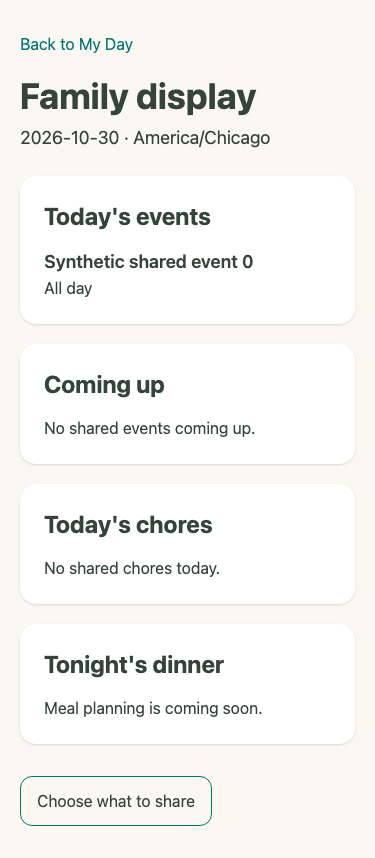
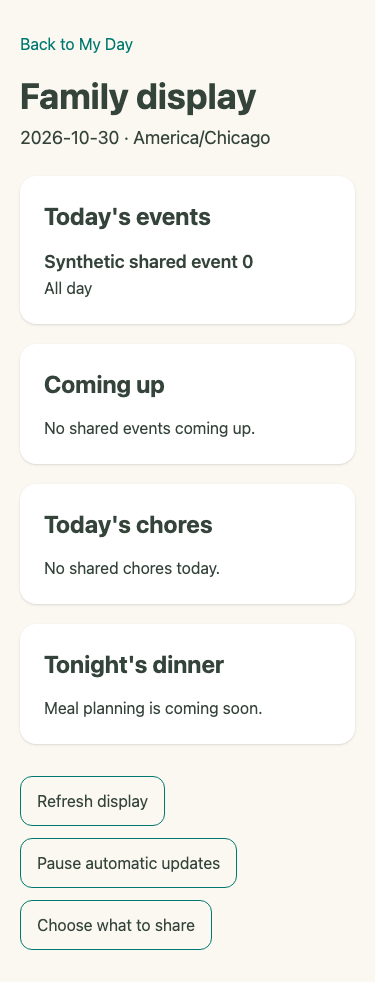
Make display refresh accessible and resilient

diff --git a/e2e/display.spec.ts b/e2e/display.spec.ts
@@ -7,6 +7,8 @@ test('a parent explicitly shares an event and changes appear on the family displ
   const anonymous = await page.request.get('/display', { maxRedirects: 0 });
   expect(anonymous.status()).toBe(303);
   expect(anonymous.headers().location).toBe('/sign-in');
+  const anonymousData = await page.request.get('/display/data', { maxRedirects: 0 });
+  expect(anonymousData.status()).toBe(303);
   await page.goto('/sign-in');
   await page.getByLabel('Email').fill('parent@example.test');
   await page.getByLabel('Password').fill('synthetic-parent-password');
@@ -16,16 +18,39 @@ test('a parent explicitly shares an event and changes appear on the family displ
   expect(await created.json()).toMatchObject({ type: 'success', status: 200 });
   const initialDisplay = await page.goto('/display');
   expect(await initialDisplay?.text()).not.toContain(title);
+  await expect(page.locator('meta[http-equiv="refresh" i]')).toHaveCount(0);
+  await expect(page.getByRole('link', { name: 'Refresh display' })).toBeVisible();
   await expect(page.getByRole('heading', { name: 'Family display' })).toBeVisible();
   const todaySection = page.getByRole('region', { name: "Today's events" });
   await expect(page.locator('body')).not.toContainText(title);
   await page.getByRole('link', { name: 'Choose what to share' }).click();
   const sharing = page.getByRole('region', { name: 'Choose what to share' });
   const event = sharing.getByRole('article').filter({ hasText: title });
+  const id = await event.locator('input[name="id"]').inputValue();
   await event.getByRole('button', { name: 'Show on display' }).click();
   await expect(event.getByRole('button', { name: 'Remove from display' })).toBeVisible();
+  await page.clock.install();
   await page.getByRole('link', { name: 'View family display' }).click();
   await expect(todaySection.getByText(title)).toBeVisible();
+  const change = await page.request.post('/calendar?/saveEvent', { form: { id, title: updated, date: today, allDay: 'on' }, headers: { origin: 'http://127.0.0.1:4173' } });
+  expect(await change.json()).toMatchObject({ type: 'success', status: 200 });
+  await page.clock.fastForward(60_000);
+  await expect(todaySection.getByText(updated)).toBeVisible();
+  await page.getByRole('button', { name: 'Pause automatic updates' }).click();
+  const pausedChange = await page.request.post('/calendar?/saveEvent', { form: { id, title, date: today, allDay: 'on' }, headers: { origin: 'http://127.0.0.1:4173' } });
+  expect(await pausedChange.json()).toMatchObject({ type: 'success', status: 200 });
+  await page.clock.fastForward(60_000);
+  await expect(todaySection.getByText(updated)).toBeVisible();
+  await page.getByRole('button', { name: 'Resume automatic updates' }).click();
+  await page.clock.fastForward(60_000);
+  await expect(todaySection.getByText(title)).toBeVisible();
+  await page.context().setOffline(true);
+  try {
+    await page.clock.fastForward(60_000);
+    await expect(page.getByRole('status')).toContainText('Unable to update the display');
+  } finally { await page.context().setOffline(false); }
+  await page.clock.fastForward(60_000);
+  await expect(page.getByRole('status')).toHaveCount(0);
   await page.setViewportSize({ width: 1280, height: 720 });
   await page.screenshot({ path: testInfo.outputPath('display-landscape.png'), fullPage: true });
   await page.setViewportSize({ width: 375, height: 812 });
@@ -67,6 +92,10 @@ test('children cannot manage display settings and responses are private', async 
   const display = await page.request.get('/display');
   expect(display.status()).toBe(200);
   expect(display.headers()['cache-control']).toContain('no-store');
+  const data = await page.request.get('/display/data');
+  expect(data.status()).toBe(200);
+  expect(data.headers()['cache-control']).toContain('no-store');
+  expect(await data.text()).not.toContain(title);
   expect((await page.request.get('/display/settings')).status()).toBe(403);
   const change = await page.request.post('/display/settings?/share', { form: { kind: 'event', id, visible: 'yes' }, headers: { origin: 'http://127.0.0.1:4173' } });
   expect(change.status()).toBe(403);
@@ -107,4 +136,20 @@ test('a selected chore shows its current progress without displaying its reward'
   const displayChore = page.getByRole('region', { name: 'Shared chores' }).getByRole('article').filter({ hasText: title });
   await expect(displayChore.getByText('Waiting for a parent')).toBeVisible();
   expect(await response?.text()).not.toContain('$2.00');
+});
+
+test('manual display refresh works without JavaScript', async ({ page, browser }) => {
+  await page.goto('/sign-in');
+  await page.getByLabel('Email').fill('kid@example.test');
+  await page.getByLabel('Password').fill('synthetic-kid-password');
+  await page.getByRole('button', { name: 'Sign in' }).click();
+  await expect(page.getByRole('heading', { name: "Sample Kid's My Day" })).toBeVisible();
+  const context = await browser.newContext({ javaScriptEnabled: false, storageState: await page.context().storageState() });
+  try {
+    const display = await context.newPage();
+    await display.goto('/display');
+    await expect(display.getByRole('button', { name: 'Pause automatic updates' })).toBeDisabled();
+    await display.getByRole('link', { name: 'Refresh display' }).click();
+    await expect(display.getByRole('heading', { name: 'Family display' })).toBeVisible();
+  } finally { await context.close(); }
 });

diff --git a/src/routes/display/+page.svelte b/src/routes/display/+page.svelte
@@ -1,24 +1,46 @@
 <script lang="ts">
   import { resolve } from '$app/paths';
+  import { onMount } from 'svelte';
   let { data } = $props();
+  let current = $derived(data);
+  let ready = $state(false);
+  let updating = $state(true);
+  let refreshError = $state(false);
+  onMount(() => {
+    ready = true;
+    let inFlight = false;
+    const timer = setInterval(() => {
+      if (updating && !inFlight) {
+        inFlight = true;
+        void fetch(resolve('/display/data'), { cache: 'no-store' }).then(async response => {
+        if (response.redirected || response.status === 401 || response.status === 403) { window.location.assign(resolve('/sign-in')); return; }
+        if (!response.ok) throw new Error('Display refresh failed');
+        current = await response.json();
+        refreshError = false;
+        }).catch(() => { refreshError = true; }).finally(() => { inFlight = false; });
+      }
+    }, 60_000);
+    return () => clearInterval(timer);
+  });
 </script>
-<svelte:head><title>Family display · Fleck Home Hub</title><meta http-equiv="refresh" content="60" /></svelte:head>
+<svelte:head><title>Family display · Fleck Home Hub</title></svelte:head>
 <main class="mx-auto max-w-7xl px-5 py-8">
   <a href={resolve('/dashboard')} class="text-teal-700">Back to My Day</a>
   <h1 class="mt-5 text-4xl font-bold">Family display</h1>
-  <p class="mt-2 text-lg">{data.today} · {data.timezone}</p>
+  <p class="mt-2 text-lg">{current.today} · {current.timezone}</p>
+  {#if refreshError}<p role="status" class="mt-3">Unable to update the display. Check the connection and refresh.</p>{/if}
   <div class="mt-6 grid gap-5 md:grid-cols-2 xl:grid-cols-3">
     <section aria-label="Today's events" class="rounded-2xl bg-white p-6 shadow-sm"><h2 class="text-2xl font-bold">Today's events</h2>
-      {#each data.events.filter(event => event.date === data.today) as event (`${event.id}-${event.date}`)}<article class="mt-4"><h3 class="text-lg font-semibold">{event.title}</h3><p>{event.allDay ? 'All day' : `${event.startTime}–${event.endTime}`}</p></article>{:else}<p class="mt-4">No shared events today.</p>{/each}
+      {#each current.events.filter(event => event.date === current.today) as event (`${event.id}-${event.date}`)}<article class="mt-4"><h3 class="text-lg font-semibold">{event.title}</h3><p>{event.allDay ? 'All day' : `${event.startTime}–${event.endTime}`}</p></article>{:else}<p class="mt-4">No shared events today.</p>{/each}
     </section>
     <section aria-label="Upcoming events" class="rounded-2xl bg-white p-6 shadow-sm"><h2 class="text-2xl font-bold">Coming up</h2>
-      {#each data.events.filter(event => event.date > data.today) as event (`${event.id}-${event.date}`)}<article class="mt-4"><h3 class="text-lg font-semibold">{event.title}</h3><p>{event.date} · {event.allDay ? 'All day' : `${event.startTime}–${event.endTime}`}</p></article>{:else}<p class="mt-4">No shared events coming up.</p>{/each}
+      {#each current.events.filter(event => event.date > current.today) as event (`${event.id}-${event.date}`)}<article class="mt-4"><h3 class="text-lg font-semibold">{event.title}</h3><p>{event.date} · {event.allDay ? 'All day' : `${event.startTime}–${event.endTime}`}</p></article>{:else}<p class="mt-4">No shared events coming up.</p>{/each}
     </section>
     <section aria-label="Shared chores" class="rounded-2xl bg-white p-6 shadow-sm"><h2 class="text-2xl font-bold">Today's chores</h2>
-      {#each data.chores as chore (chore.id)}<article class="mt-4"><h3 class="text-lg font-semibold">{chore.title}</h3><p>{chore.status === 'verified' ? 'Approved' : chore.status === 'pending_verification' ? 'Waiting for a parent' : chore.status === 'needs_rework' ? 'Needs rework' : 'To do'}</p></article>{:else}<p class="mt-4">No shared chores today.</p>{/each}
-      {#if data.chores.length}<p class="mt-4">{data.chores.filter(chore => chore.status === 'verified').length} of {data.chores.length} approved</p>{/if}
+      {#each current.chores as chore (chore.id)}<article class="mt-4"><h3 class="text-lg font-semibold">{chore.title}</h3><p>{chore.status === 'verified' ? 'Approved' : chore.status === 'pending_verification' ? 'Waiting for a parent' : chore.status === 'needs_rework' ? 'Needs rework' : 'To do'}</p></article>{:else}<p class="mt-4">No shared chores today.</p>{/each}
+      {#if current.chores.length}<p class="mt-4">{current.chores.filter(chore => chore.status === 'verified').length} of {current.chores.length} approved</p>{/if}
     </section>
     <section class="rounded-2xl bg-white p-6 shadow-sm"><h2 class="text-2xl font-bold">Tonight's dinner</h2><p class="mt-4">Meal planning is coming soon.</p></section>
   </div>
-  {#if data.canManage}<a href={resolve('/display/settings')} class="mt-8 inline-block rounded-xl border border-teal-700 px-4 py-3">Choose what to share</a>{/if}
+  <div class="mt-8 flex flex-wrap gap-3"><a href={resolve('/display')} data-sveltekit-reload class="inline-block rounded-xl border border-teal-700 px-4 py-3">Refresh display</a><button disabled={!ready} onclick={() => { updating = !updating; }} class="rounded-xl border border-teal-700 px-4 py-3 disabled:opacity-50">{updating ? 'Pause automatic updates' : 'Resume automatic updates'}</button>{#if current.canManage}<a href={resolve('/display/settings')} class="inline-block rounded-xl border border-teal-700 px-4 py-3">Choose what to share</a>{/if}</div>
 </main>

diff --git a/src/routes/display/+page.server.ts b/src/routes/display/+page.server.ts
@@ -1,25 +1,4 @@
-import { error, redirect } from '@sveltejs/kit';
 import type { PageServerLoad } from './$types';
-import { localDate } from '../../lib/chores/recurrence';
-import { displayData } from '../../lib/server/display';
-import { getIdentityServices } from '../../lib/server/runtime';
+import { loadDisplay } from '../../lib/server/display-view';
 
-async function principal(request: Request) {
-  let services;
-  try { services = getIdentityServices(); } catch { error(503, 'Identity service unavailable'); }
-  const session = await services.auth.api.getSession({ headers: request.headers });
-  if (!session) redirect(303, '/sign-in');
-  const member = services.db.prepare('SELECT household_id AS householdId FROM membership WHERE user_id = ? ORDER BY household_id LIMIT 1').get(session.user.id) as { householdId: string } | undefined;
-  if (!member) error(403, 'No household access');
-  return { ...services, actor: session.user.id, household: member.householdId };
-}
-
-export const load: PageServerLoad = async ({ request }) => {
-  const { db, actor, household } = await principal(request);
-  const settings = db.prepare('SELECT timezone FROM household_settings WHERE household_id = ?').get(household) as { timezone: string } | undefined;
-  const timezone = settings?.timezone ?? 'America/Chicago';
-  const today = localDate(new Date(), timezone);
-  const last = new Date(`${today}T00:00:00Z`); last.setUTCDate(last.getUTCDate() + 7);
-  const { choices, events, chores } = displayData(db, actor, household, today, last.toISOString().slice(0, 10));
-  return { today, timezone, events, chores, canManage: choices !== null };
-};
+export const load: PageServerLoad = ({ request }) => loadDisplay(request);

diff --git a/src/lib/server/display-view.ts b/src/lib/server/display-view.ts
@@ -1,0 +1,19 @@
+import { error, redirect } from '@sveltejs/kit';
+import { localDate } from '../chores/recurrence';
+import { displayData } from './display';
+import { getIdentityServices } from './runtime';
+
+export async function loadDisplay(request: Request) {
+  let services;
+  try { services = getIdentityServices(); } catch { error(503, 'Identity service unavailable'); }
+  const session = await services.auth.api.getSession({ headers: request.headers });
+  if (!session) redirect(303, '/sign-in');
+  const member = services.db.prepare('SELECT household_id AS householdId FROM membership WHERE user_id = ? ORDER BY household_id LIMIT 1').get(session.user.id) as { householdId: string } | undefined;
+  if (!member) error(403, 'No household access');
+  const settings = services.db.prepare('SELECT timezone FROM household_settings WHERE household_id = ?').get(member.householdId) as { timezone: string } | undefined;
+  const timezone = settings?.timezone ?? 'America/Chicago';
+  const today = localDate(new Date(), timezone);
+  const last = new Date(`${today}T00:00:00Z`); last.setUTCDate(last.getUTCDate() + 7);
+  const { choices, events, chores } = displayData(services.db, session.user.id, member.householdId, today, last.toISOString().slice(0, 10));
+  return { today, timezone, events, chores, canManage: choices !== null };
+}

diff --git a/src/routes/display/data/+server.ts b/src/routes/display/data/+server.ts
@@ -1,0 +1,5 @@
+import { json } from '@sveltejs/kit';
+import type { RequestHandler } from './$types';
+import { loadDisplay } from '../../../lib/server/display-view';
+
+export const GET: RequestHandler = async ({ request }) => json(await loadDisplay(request));

diff --git a/docs/display.md b/docs/display.md
@@ -2,6 +2,6 @@
 
 The display requires a normal household member session. Parents choose events and today's chores to share on the separate settings page. Sharing an event applies to its entire series; sharing a chore applies only to that occurrence. A parent can remove either selection, including after the record leaves the display's date range. Existing records are private by default. The display sends only selected titles, dates, times and chore statuses; it excludes descriptions, locations, assignee names, balances and rewards. Skipped and paused unstarted recurring chores are hidden.
 
-The page reloads every 60 seconds to obtain fresh data. If the connection fails, the browser's normal network error is shown; there is no offline cache. Expired or revoked sessions must sign in again. The display uses an ordinary account, not a restricted display token: anyone who can operate that device can also navigate to pages allowed by that account. Keep the device physically secure; do not leave a parent session unattended. A purpose-built restricted, revocable display session is future work.
+With JavaScript, the page refreshes its data every 60 seconds; automatic updates can be paused. A refresh link works without JavaScript. There is no offline cache; a failed background refresh displays a connection message, while a failed manual reload uses the browser's network error. Expired or revoked sessions must sign in again. The display uses an ordinary account, not a restricted display token: anyone who can operate that device can also navigate to pages allowed by that account. Keep the device physically secure; do not leave a parent session unattended. A purpose-built restricted, revocable display session is future work.
 
 Migration `0005_display` creates opt-in tables without altering existing records. Stop the service and verify a backup before upgrading. Actual device, tailnet and unattended-use behavior remain unverified. Calendar daylight-saving limitations in [calendar.md](calendar.md) still apply.

diff --git a/AGENTS.md b/AGENTS.md
@@ -12,6 +12,8 @@ For editable forms, test an invalid submission and correction through the browse
 
 When projecting existing records into a shared view, test the entire server response for excluded private fields and non-shared records, not just visible cards. Exercise source-record state changes such as cancellation, skips and revocation so the projection follows the same domain rules as the original view.
 
+For automatically updated views, avoid timed full-page refreshes that interrupt reading or keyboard focus. Provide a way to pause updates and a usable native refresh fallback, and test data freshness with a controlled clock. Test network failure and recovery rather than assuming a framework refresh API rejects its promise when a load fails.
+
 After sign-in, assert the authenticated page or session is ready before taking storage state or sending dependent requests. When testing SvelteKit form actions through an API client, assert the action response type and application status as well as HTTP status: redirects can be encoded in a successful HTTP response. Use valid, authorized fixtures for negative authorization tests so input validation or an anonymous redirect cannot masquerade as an authorization check.
 
 Use mise as the tool-version authority: `mise install --locked`, `mise run install`, `mise run dev`, `mise run lint`, `mise run typecheck`, `mise run test`, `mise run build`, `mise run e2e`, and `mise run parity`. Run focused tests first and the complete required checks before delivery. Report checks that did not run.
